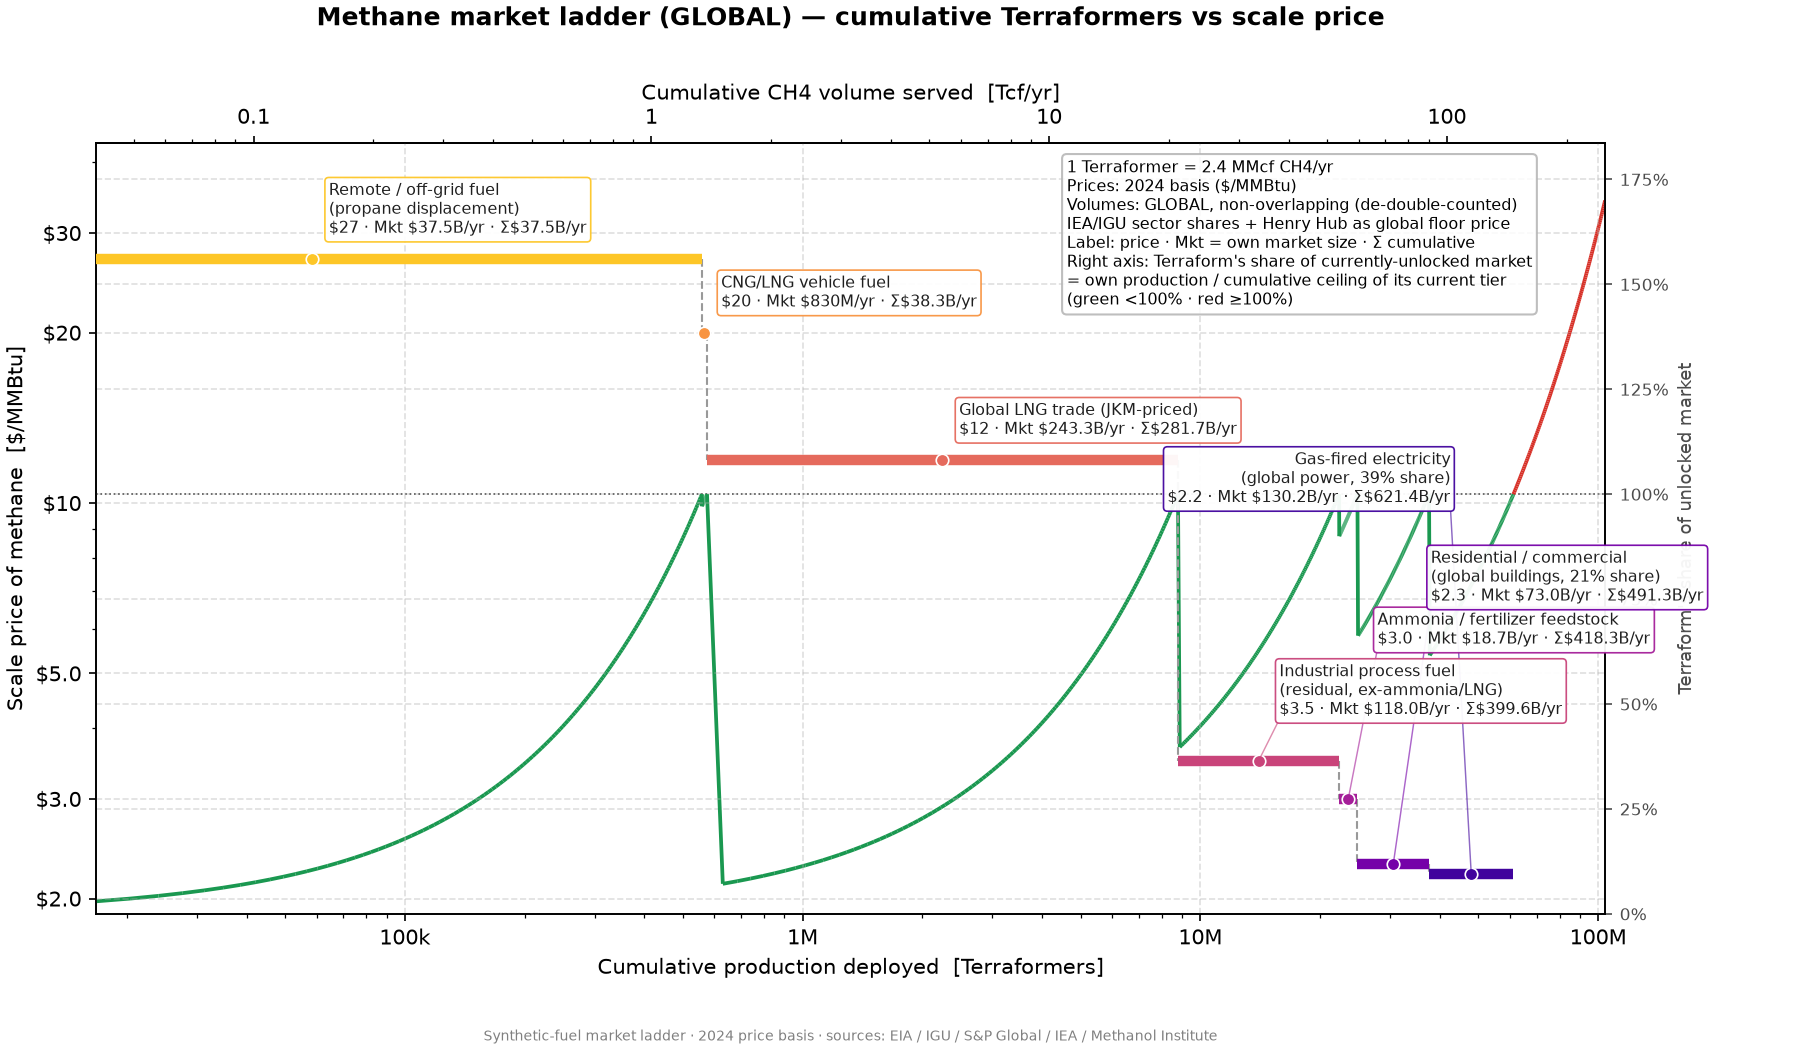
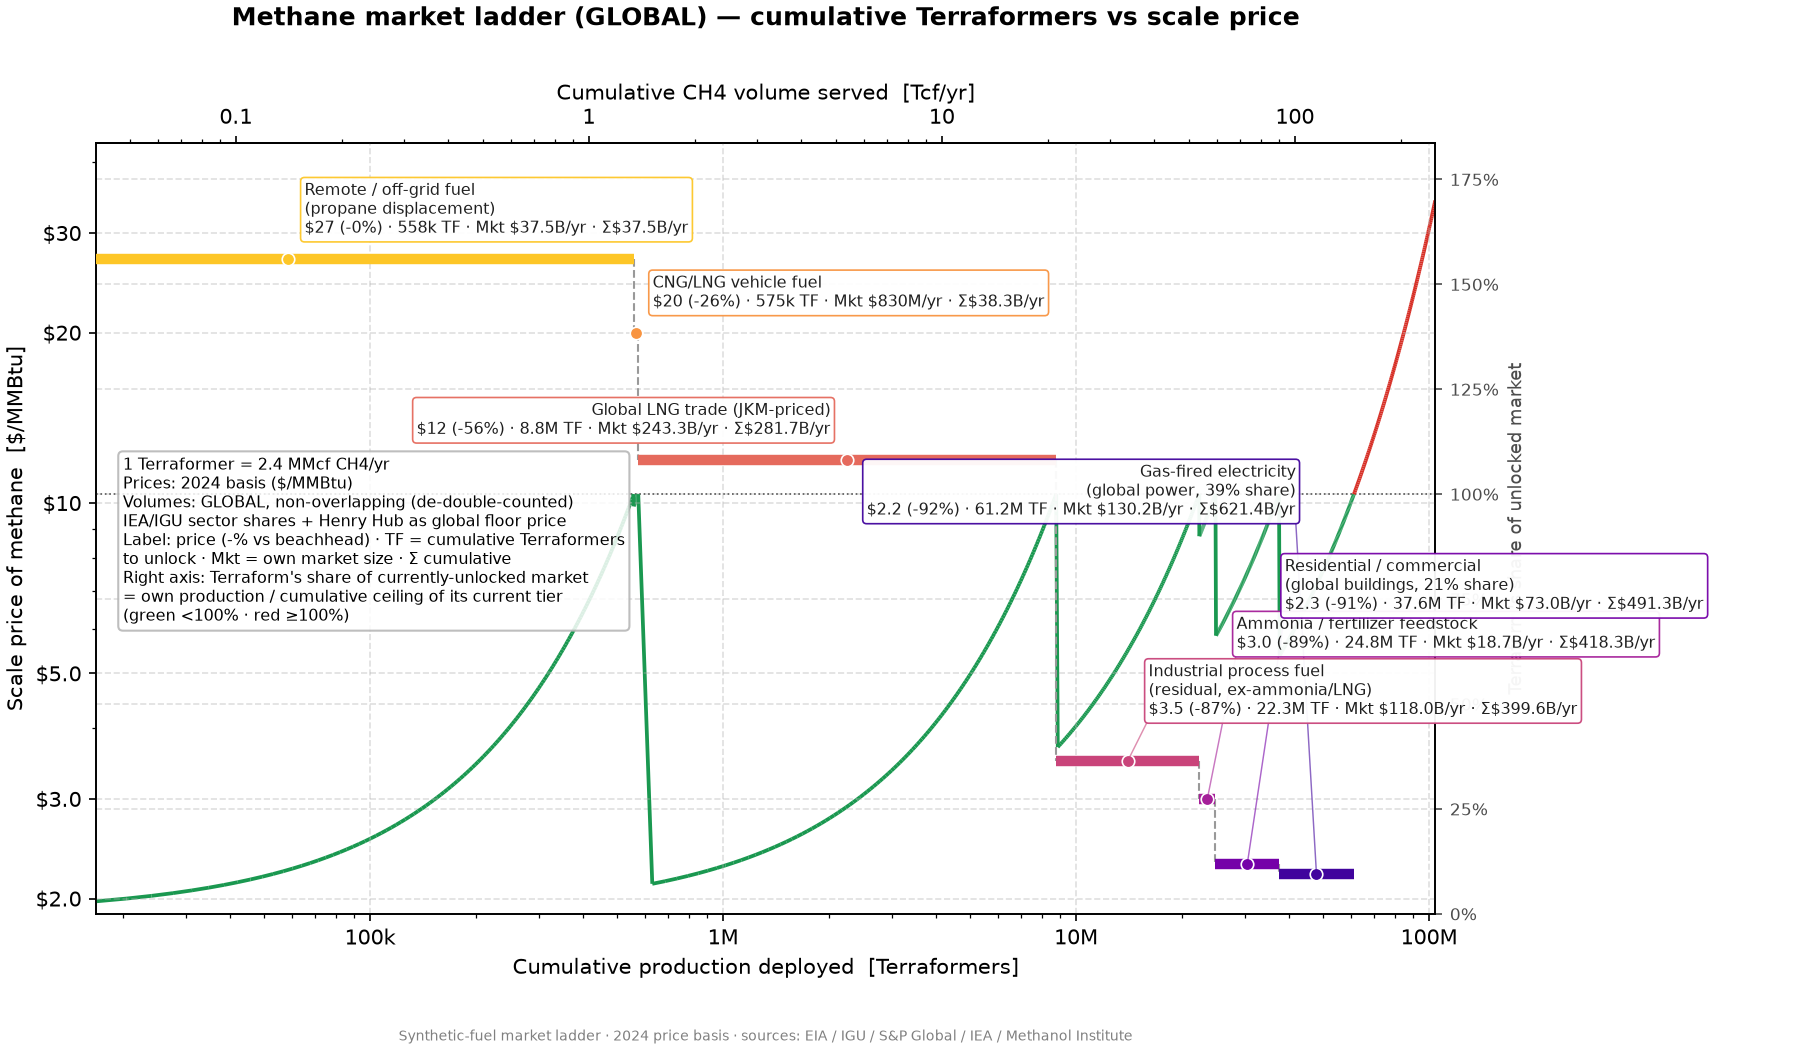
Add cumulative Terraformers and % cost decrease to ladder step labels
Each step's box already encoded these two values as axis position (x for
cumulative Terraformers, y for price) but never printed them as text.
Add explicit "TF" (cumulative Terraformers to unlock) and "-X%" (price
decrease from the beachhead tier) fields alongside the market-size and
cumulative-$ figures, and retune label offsets/figsize on all three
ladders so the wider boxes don't overlap.

diff --git a/Terraform-Market-Ladder/terraformer_market_ladder.py b/Terraform-Market-Ladder/terraformer_market_ladder.py
@@ -258,6 +258,15 @@ def _human(x: float) -> str:
     return f"{x:g}"
 
 
+def _human_count(x: float) -> str:
+    """Same as _human but rounded to 3 sig figs — for arbitrary (non-tick) counts in labels."""
+    if x >= 1e6:
+        return f"{x / 1e6:.1f}M"
+    if x >= 1e3:
+        return f"{x / 1e3:.0f}k"
+    return f"{x:.0f}"
+
+
 def add_market_share_axis(ax, steps: list[LadderStep]) -> None:
     """Overlay Terraform's share of the currently-unlocked cumulative market, on a secondary
     (right) y-axis: share(x) = x / H_n, where x is Terraform's own cumulative production (the
@@ -384,7 +393,9 @@ def draw(ax, fig, steps: list[LadderStep], *, title: str, y_label: str, x_top_la
 
     # Pass 2 — text + boxes, zorder above every arrow drawn in pass 1.
     for s, c, xmid, dx, dy, ha, va in anchors:
-        label = (f"{s.name}\n{price_fmt(s.price)}"
+        pct_decrease = (steps[0].price - s.price) / steps[0].price * 100.0
+        label = (f"{s.name}\n{price_fmt(s.price)} (-{pct_decrease:.0f}%)"
+                 f" · {_human_count(s.cum_hi)} TF"
                  f" · Mkt {_fmt_dollars(s.dollars_per_year)}"
                  f" · Σ{_fmt_dollars(s.cumulative_dollars_per_year)}")
         bbox = dict(boxstyle="round,pad=0.25", fc="white", ec=c, lw=0.8, alpha=0.95)
@@ -448,16 +459,18 @@ def figures():
     # Crowded low-price methane tiers cluster in both x and y: cascade each label's dy upward
     # (anchored to its OWN dot, not a shared column) so boxes stack without crossing leaders.
     methane_offsets = {
+        "Global LNG trade (JKM-priced)": (-8, 10, "right", "bottom"),
         "Industrial process fuel\n(residual, ex-ammonia/LNG)": (10, 20, "left", "bottom"),
-        "Ammonia / fertilizer feedstock": (14, 72, "left", "bottom"),
-        "Residential / commercial\n(global buildings, 21% share)": (18, 124, "left", "bottom"),
-        "Gas-fired electricity\n(global power, 39% share)": (-10, 176, "right", "bottom"),
+        "Ammonia / fertilizer feedstock": (14, 70, "left", "bottom"),
+        "Residential / commercial\n(global buildings, 21% share)": (18, 120, "left", "bottom"),
+        "Gas-fired electricity\n(global power, 39% share)": (-10, 170, "right", "bottom"),
     }
     methane_params = ("1 Terraformer = 2.4 MMcf CH4/yr\n"
                       "Prices: 2024 basis ($/MMBtu)\n"
                       "Volumes: GLOBAL, non-overlapping (de-double-counted)\n"
                       "IEA/IGU sector shares + Henry Hub as global floor price\n"
-                      "Label: price · Mkt = own market size · Σ cumulative\n"
+                      "Label: price (-% vs beachhead) · TF = cumulative Terraformers\n"
+                      "to unlock · Mkt = own market size · Σ cumulative\n"
                       "Right axis: Terraform's share of currently-unlocked market\n"
                       "= own production / cumulative ceiling of its current tier\n"
                       "(green <100% · red ≥100%)")
@@ -474,7 +487,8 @@ def figures():
                        "y = methanol netback / reference value\n"
                        "FEEDSTOCK-VALUE approach: Terraform sells methanol,\n"
                        "not the converted end-product (see MTX-TAM variant)\n"
-                       "Label: price · Mkt = own market size · Σ cumulative\n"
+                       "Label: price (-% vs beachhead) · TF = cumulative Terraformers\n"
+                      "to unlock · Mkt = own market size · Σ cumulative\n"
                        "Right axis: Terraform's share of currently-unlocked market\n"
                        "= own production / cumulative ceiling of its current tier\n"
                        "(green <100% · red ≥100%)")
@@ -484,13 +498,13 @@ def figures():
     # in x, but check for y-collisions on the linear axis and tune if needed).
     methanol_tam_offsets = {
         "MTBE / gasoline octane": (10, 16, "left", "bottom"),
-        "Acetic acid": (10, 50, "left", "bottom"),
-        "Formaldehyde": (10, 84, "left", "bottom"),
-        "MTX aromatics/olefins\n(global olefins TAM)": (10, 118, "left", "bottom"),
-        "Bulk DME\n(residual direct-fuel use)": (10, 152, "left", "bottom"),
+        "Acetic acid": (10, 60, "left", "bottom"),
+        "Formaldehyde": (10, 100, "left", "bottom"),
+        "MTX aromatics/olefins\n(global olefins TAM)": (24, 168, "left", "bottom"),
+        "Bulk DME\n(residual direct-fuel use)": (10, 212, "left", "bottom"),
         "MTG gasoline\n(global gasoline TAM)": (10, 20, "left", "bottom"),
-        "MTX diesel\n(global diesel TAM)": (16, 90, "left", "bottom"),
-        "MTX jet / Jet-A\n(global jet fuel TAM)": (-22, 160, "right", "bottom"),
+        "MTX diesel\n(global diesel TAM)": (16, 110, "left", "bottom"),
+        "MTX jet / Jet-A\n(global jet fuel TAM)": (-40, 235, "right", "bottom"),
     }
     methanol_tam_params = ("1 Terraformer = ~87 t methanol/yr\n"
                        "y = max methanol netback for conversion to stay profitable\n"
@@ -500,7 +514,8 @@ def figures():
                        "Non-MTX tiers still feedstock-value (unchanged)\n"
                        "Conversion ratios: MTG 2.584 (sourced, Motunui); others\n"
                        "2.9 (MTO rule-of-thumb, extended to diesel/jet — ASSUMPTION)\n"
-                       "Label: price · Mkt = own market size · Σ cumulative\n"
+                       "Label: price (-% vs beachhead) · TF = cumulative Terraformers\n"
+                      "to unlock · Mkt = own market size · Σ cumulative\n"
                        "Right axis: Terraform's share of currently-unlocked market\n"
                        "= own production / cumulative ceiling of its current tier\n"
                        "(green <100% · red ≥100%)")
@@ -536,7 +551,7 @@ def figures():
         return fig, OUTPUT_ROOT / "methanol_market_ladder.png"
 
     def build_methanol_tam():
-        fig, ax = render.new_figure(figsize=(12, 7))
+        fig, ax = render.new_figure(figsize=(15, 8))
         draw(ax, fig, methanol_tam,
              title="Methanol market ladder (destination-product TAM) — cumulative Terraformers vs scale price",
              y_label="Max methanol netback price  [$/tonne]",
